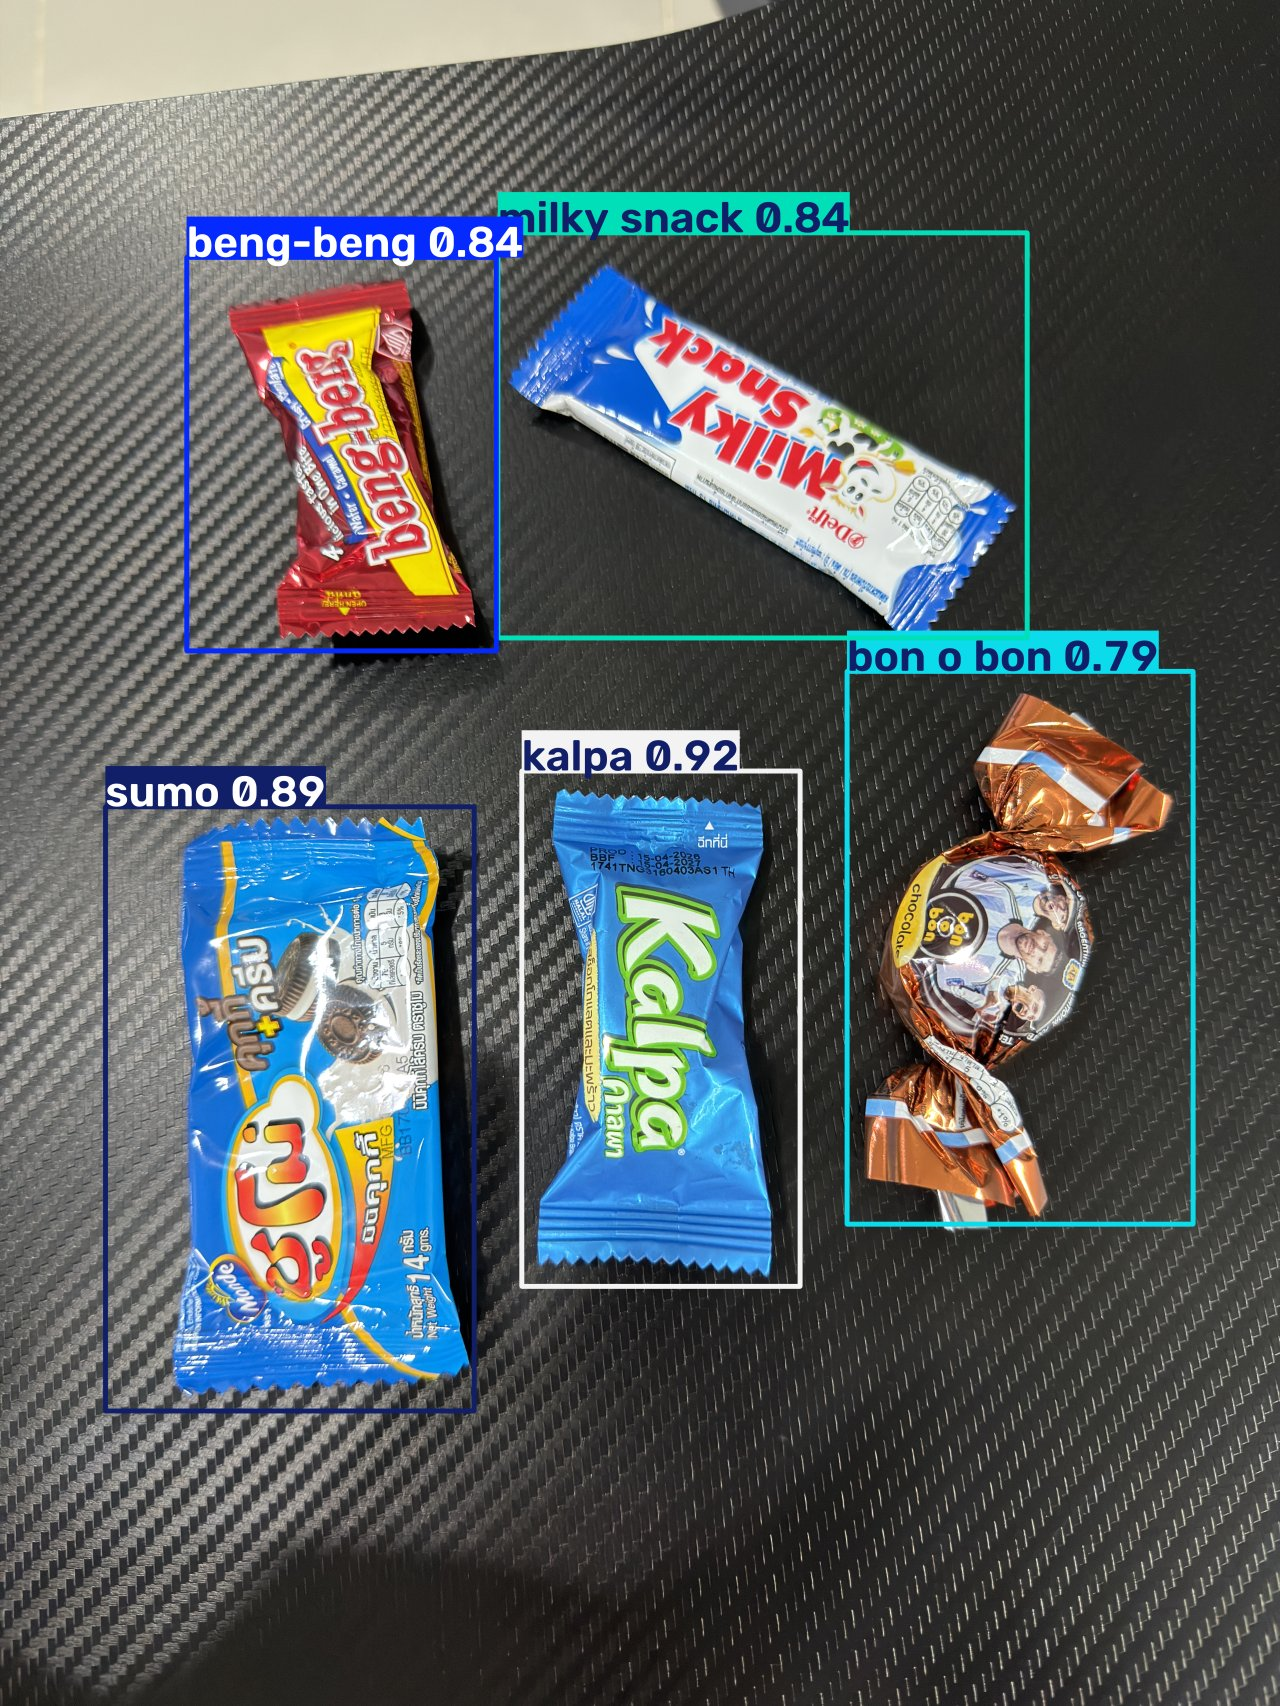
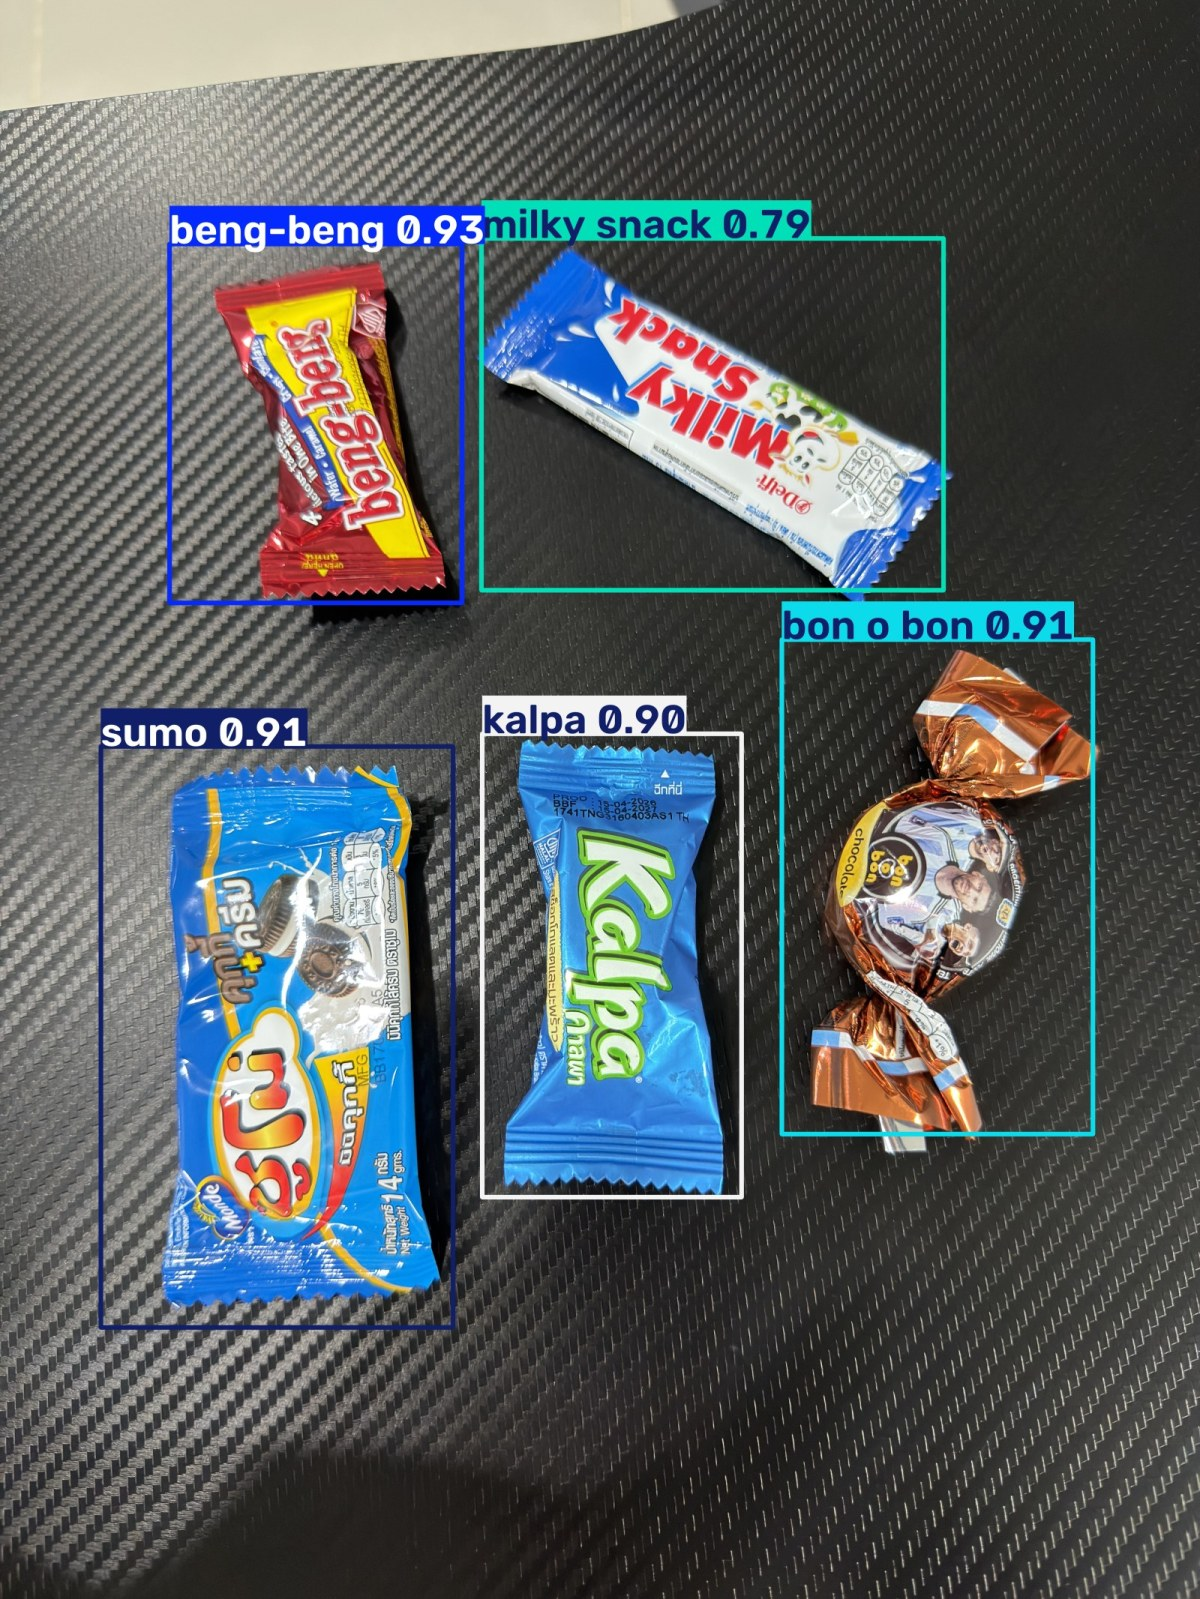
Switch to train-4 model trained with webcam frames
train-3 misread the webcam scene: it missed the yellow beng-beng
wrapper, called milky snack sumo, and flagged the floor as kalpa.
train-4 adds 28 labeled webcam frames and finds all 5 brands on
held-out webcam frames with no off-table false positives.

The camera script now tracks objects and votes each track's class
over the last 15 frames so labels stop flickering, and 's' saves a
raw frame for labeling. Tracking needs lap.

Changed region(s): [[0.0617, 0.0919, 0.9558, 0.858]]

diff --git a/05-test-camera.py b/05-test-camera.py
@@ -1,10 +1,21 @@
+import os
+from collections import defaultdict, deque
+
 import cv2
 from ultralytics import YOLO
+from ultralytics.utils.plotting import Annotator, colors
+
+# จำนวนเฟรมย้อนหลังที่ใช้โหวต class ของวัตถุแต่ละชิ้น (มากขึ้น = นิ่งขึ้น แต่เปลี่ยนช้าลง)
+VOTE_FRAMES = 15
+
+# โฟลเดอร์เก็บภาพจากกล้องเมื่อกด 's' (นำไป label ใน Label Studio แล้วเทรนใหม่)
+SAVE_DIR = "frame/images"
 
 
 def main():
     # โหลดโมเดลที่ผ่านการฝึก (Trained Model)
-    model = YOLO("runs/detect/train-3/weights/best.pt")
+    model = YOLO("runs/detect/train-4/weights/best.pt")
+    names = model.names
 
     # เปิดใช้งานกล้องเว็บแคม
     # เลข 0 หมายถึงกล้องตัวแรกที่เชื่อมต่อกับคอมพิวเตอร์
@@ -21,37 +32,64 @@ def main():
         print("ไม่สามารถเปิดกล้องได้")
         return
 
+    # ประวัติ (class, conf) ของแต่ละ track id ใช้โหวตแก้ปัญหา class กระพริบ เช่น beng-beng กลายเป็น sumo บางเฟรม
+    history = defaultdict(lambda: deque(maxlen=VOTE_FRAMES))
+    saved = 0
+
     # แสดงคำแนะนำการใช้งาน
     print("กด 'q' เพื่อออกจากโปรแกรม")
+    print(f"กด 's' เพื่อบันทึกภาพจากกล้องลง {SAVE_DIR}/ (ใช้ label เพิ่มแล้วเทรนใหม่)")
 
     # เริ่มการตรวจจับแบบ Real-time
     while True:
         # อ่านภาพจากกล้องทีละเฟรม
         success, frame = cap.read()
 
-        # ตรวจสอบว่าสามารถอ่านภาพจากกล้องได้
-        if success:
-
-            # นำภาพจากกล้องเข้าสู่โมเดล YOLO
-            results = model.predict(
-                source=frame,
-                device=0,       # ใช้ GPU ในการประมวลผล
-                verbose=False   # ไม่พิมพ์ log ทุกเฟรม
-            )
-
-            # วาดกรอบ Bounding Box และชื่อ Class ลงบนภาพ (ส่งเข้าไป 1 เฟรม จึงได้ผลลัพธ์ 1 ชุด)
-            annotated_frame = results[0].plot()
-
-            # แสดงภาพที่ผ่านการตรวจจับบนหน้าต่าง
-            cv2.imshow("YOLO26 Real-time Detection", annotated_frame)
-
-            # กดปุ่ม 'q' เพื่อออกจากโปรแกรม
-            if cv2.waitKey(1) & 0xFF == ord('q'):
-                break
-
         # หากไม่สามารถอ่านภาพจากกล้องได้ ให้หยุดการทำงาน
-        else:
+        if not success:
             break
+
+        # ใช้ tracking แทน predict เพื่อให้วัตถุชิ้นเดิมได้ id เดิมในทุกเฟรม
+        results = model.track(
+            source=frame,
+            persist=True,   # จำ track ข้ามเฟรม
+            conf=0.3,
+            device=0,       # ใช้ GPU ในการประมวลผล
+            verbose=False   # ไม่พิมพ์ log ทุกเฟรม
+        )
+        boxes = results[0].boxes
+
+        annotator = Annotator(frame.copy(), line_width=3)
+        if boxes.id is not None:
+            for xyxy, track_id, cls, conf in zip(
+                boxes.xyxy.tolist(), boxes.id.int().tolist(),
+                boxes.cls.int().tolist(), boxes.conf.tolist()
+            ):
+                history[track_id].append((cls, conf))
+
+                # โหวตแบบถ่วงน้ำหนักด้วย confidence จากเฟรมย้อนหลัง
+                score = defaultdict(float)
+                for c, p in history[track_id]:
+                    score[c] += p
+                best = max(score, key=score.get)
+                avg_conf = score[best] / len(history[track_id])
+
+                annotator.box_label(xyxy, f"{names[best]} {avg_conf:.2f}", color=colors(best, True))
+
+        # แสดงภาพที่ผ่านการตรวจจับบนหน้าต่าง
+        cv2.imshow("YOLO26 Real-time Detection", annotator.result())
+
+        key = cv2.waitKey(1) & 0xFF
+        # กดปุ่ม 'q' เพื่อออกจากโปรแกรม
+        if key == ord('q'):
+            break
+        # กดปุ่ม 's' เพื่อบันทึกภาพดิบ (ไม่มีกรอบ) ไว้ label เพิ่ม
+        if key == ord('s'):
+            os.makedirs(SAVE_DIR, exist_ok=True)
+            while os.path.exists(path := os.path.join(SAVE_DIR, f"cam_{saved:04d}.jpg")):
+                saved += 1
+            cv2.imwrite(path, frame)
+            print(f"บันทึกภาพ: {path}")
 
     # ปิดการเชื่อมต่อกับกล้อง
     cap.release()

diff --git a/04-test_video.py b/04-test_video.py
@@ -1,7 +1,7 @@
 from ultralytics import YOLO
 
 # โหลดโมเดลที่ผ่านการฝึก (Trained Model)
-model = YOLO("runs/detect/train-3/weights/best.pt")
+model = YOLO("runs/detect/train-4/weights/best.pt")
 
 # กำหนดชื่อไฟล์วิดีโอที่ต้องการนำมาทดสอบ
 video_to_test = "test_chocolate_treats_video.mp4"

diff --git a/03-test_image.py b/03-test_image.py
@@ -1,7 +1,7 @@
 from ultralytics import YOLO
 
 # โหลดโมเดลที่ผ่านการฝึก (Trained Model)
-model = YOLO("runs/detect/train-3/weights/best.pt")
+model = YOLO("runs/detect/train-4/weights/best.pt")
 
 # นำโมเดลไปทดสอบกับรูปภาพ
 results = model.predict(

diff --git a/README.md b/README.md
@@ -93,6 +93,7 @@ pip install -r requirements.txt
 | `torch` / `torchvision` / `torchaudio` | 2.11.0 / 0.26.0 / 2.11.0 (CUDA 12.8) |
 | `ultralytics` | 8.4.115 |
 | `label-studio` | 1.23.0 |
+| `lap` | 0.5.13 (ใช้กับ Tracking ใน `05-test-camera.py`) |
 | `opencv-python`, `numpy`, `pillow`, `matplotlib`, `PyYAML`, `tqdm` | ล่าสุด |
 
 > ถ้าใช้ CPU หรือ macOS ให้ลบบรรทัด `--extra-index-url` และ `+cu128` ออกจาก `requirements.txt` แล้วเปลี่ยน `device=0` ในสคริปต์เป็น `device="cpu"` (หรือ `"mps"` บน Mac)
@@ -213,8 +214,10 @@ python 01-export_dataset.py
 สคริปต์จะหาไฟล์ `*.json` ในโฟลเดอร์โปรเจกต์ให้เอง (ต้องมีแค่ **1 ไฟล์**) ถ้ามีหลายไฟล์ให้ระบุเอง
 
 ```bash
-python 01-export_dataset.py --json project-4-at-2026-10-04-01-03-f8f1569f.json
+python 01-export_dataset.py --json project-4-at-2026-10-04-webcam-merged.json
 ```
+
+> `project-4-at-2026-10-04-webcam-merged.json` คือไฟล์ Export จาก Label Studio รวมกับ Label ของภาพ Webcam 28 ภาพ (`frame/webcam_tasks.json` ซึ่ง Import เข้า Label Studio ได้)
 
 | Option | ค่าเริ่มต้น | รายละเอียด |
 | ------ | --------- | --------- |
@@ -230,8 +233,8 @@ python 01-export_dataset.py --json project-4-at-2026-10-04-01-03-f8f1569f.json
 
 ```text
 Classes (5): ['beng-beng', 'bon o bon', 'kalpa', 'milky snack', 'sumo']
-Train: 182 images
-Val:   46 images
+Train: 205 images
+Val:   51 images
 ```
 
 ---
@@ -272,29 +275,49 @@ close_mosaic = 20      # ปิด Mosaic ใน 20 epoch สุดท้าย
 
 # 📊 Results
 
-โมเดลปัจจุบันคือ `runs/detect/train-3` (yolo26s) หยุดเองที่ epoch 148 โดย `best.pt` มาจาก epoch 88 Dataset ประกอบด้วยเฟรมจากวิดีโอ Train เดิม 147 ภาพ และเฟรมจากวิดีโอ bon o bon ที่ถ่ายใหม่ (ระยะใกล้ หลายมุม) อีก 81 ภาพ
+โมเดลปัจจุบันคือ `runs/detect/train-4` (yolo26s) เทรนครบ 200 epoch โดย `best.pt` มาจาก epoch 150 Dataset มีทั้งหมด 256 ภาพ ได้แก่
+- เฟรมจากวิดีโอ Train เดิม 147 ภาพ
+- เฟรมจากวิดีโอ bon o bon (ระยะใกล้ หลายมุม) 81 ภาพ
+- ภาพจากกล้อง Webcam บนโต๊ะไม้ 28 ภาพ (`cam_*.jpg`) ถ่ายเพิ่มเพราะ `train-3` ใช้กับกล้องจริงแล้วทายผิด
 
-## ผลรายยี่ห้อ (Validation 46 ภาพ)
+## ผลรายยี่ห้อ (Validation 51 ภาพ)
 
 | Class | Precision | Recall | mAP50 | mAP50-95 |
 | ----- | --------- | ------ | ----- | -------- |
-| beng-beng | 0.986 | 1.000 | 0.995 | 0.623 |
-| bon o bon | 0.963 | 0.957 | 0.965 | 0.628 |
-| kalpa | 0.900 | 0.955 | 0.922 | 0.645 |
-| milky snack | 1.000 | 0.947 | 0.984 | 0.530 |
-| sumo | 0.961 | 0.938 | 0.991 | 0.645 |
-| **all** | **0.962** | **0.959** | **0.971** | **0.614** |
+| beng-beng | 1.000 | 0.976 | 0.995 | 0.696 |
+| bon o bon | 0.930 | 0.980 | 0.969 | 0.683 |
+| kalpa | 1.000 | 0.983 | 0.995 | 0.770 |
+| milky snack | 0.995 | 0.897 | 0.992 | 0.716 |
+| sumo | 1.000 | 1.000 | 0.995 | 0.777 |
+| **all** | **0.985** | **0.967** | **0.989** | **0.728** |
 
-ทุกยี่ห้อได้ Precision, Recall และ mAP50 เกิน 90%
+## ปัญหาของ `train-3` กับกล้อง Webcam
+
+ภาพ Train ของ `train-3` ถ่ายจากมือถือบนพื้นคาร์บอนสีดำทั้งหมด พอใช้กับกล้อง Webcam บนโต๊ะไม้ที่แสงจ้า โมเดลจึงทายผิด
+
+* ไม่เจอ beng-beng ซองสีเหลืองเลย เพราะใน Dataset มีแต่ซองฟอยล์สีแดง
+* ทาย milky snack เป็น sumo
+* ทายพื้นกระเบื้องและหน้าต่างเป็น kalpa
+* ชื่อยี่ห้อกระพริบสลับไปมาระหว่างเฟรม
+
+ผลเทียบบนภาพ Webcam 27 ภาพที่ไม่ได้ใช้ Train (conf 0.5)
+
+| Model | beng-beng | milky snack | kalpa | sumo | bon o bon | ทายผิดนอกโต๊ะ |
+| ----- | --------- | ----------- | ----- | ---- | --------- | ------------- |
+| `train-4` | **27/27** | **27/27** | 27/27 | 27/27 | 25/27 | **0 กรอบ** |
+| `train-3` | 0/27 | 0/27 (ทายเป็น sumo) | 27/27 | 27/27 | 27/27 | 20 กรอบ |
+
+> ภาพ Webcam ทุกภาพถ่ายฉากเดียวกัน ขนมวางเรียงลำดับเดิม ถ้าสลับตำแหน่งหรือเปลี่ยนแสงอาจยังทายผิดได้ ควรถ่ายเพิ่มด้วยปุ่ม `s` ใน `05-test-camera.py`
 
 ## เทียบกับโมเดลรุ่นก่อน
 
-| Model | val mAP50 | val mAP50-95 | bon o bon (val) Recall | วิดีโอ bon o bon (เฟรมที่ตรวจเจอ) | `test.jpg` (conf 0.5) |
-| ----- | --------- | ------------ | ---------------------- | --------------------------------- | --------------------- |
-| `train-3` | 0.971 | 0.614 | 0.957 | **93%** (1221/1317) | ครบ 5/5 ยี่ห้อ |
-| `train-v2` | 0.970 | 0.599 | 0.717 | 38% (506/1317) | 4/5 (sumo ได้แค่ 0.33) |
+| Model | val mAP50 | val mAP50-95 | วิดีโอ bon o bon (เฟรมที่ตรวจเจอ) | `test.jpg` (conf 0.5) |
+| ----- | --------- | ------------ | --------------------------------- | --------------------- |
+| `train-4` | 0.989 | 0.728 | **93%** (1225/1317) | ครบ 5/5 ยี่ห้อ |
+| `train-3` | 0.971 | 0.614 | 93% (1221/1317) | ครบ 5/5 ยี่ห้อ |
+| `train-v2` | 0.970 | 0.599 | 38% (506/1317) | 4/5 (sumo ได้แค่ 0.33) |
 
-> ทั้งสองรุ่นวัดบน Validation ชุดเดียวกัน 46 ภาพ วิดีโอ bon o bon มี 81 เฟรมที่ใช้ Train อยู่ด้วย ตัวเลข 93% จึงสูงกว่าการใช้งานจริงเล็กน้อย
+> ตัวเลข val ของ `train-4` วัดบน Validation 51 ภาพ (มีภาพ Webcam รวมอยู่ด้วย) ส่วน `train-3` และ `train-v2` วัดบน 46 ภาพเดิม จึงเทียบกันตรง ๆ ไม่ได้ วิดีโอ bon o bon มี 81 เฟรมที่ใช้ Train อยู่ด้วย ตัวเลข 93% จึงสูงกว่าการใช้งานจริงเล็กน้อย
 
 ![Confusion Matrix](images/confusion_matrix.png)
 
@@ -308,7 +331,7 @@ close_mosaic = 20      # ปิด Mosaic ใน 20 epoch สุดท้าย
 
 # 🧪 Test Model
 
-ทั้ง 3 สคริปต์โหลด Weights จาก `runs/detect/train-3/weights/best.pt` ถ้า Train รอบใหม่ ให้แก้ path นี้ในทั้ง 3 ไฟล์
+ทั้ง 3 สคริปต์โหลด Weights จาก `runs/detect/train-4/weights/best.pt` ถ้า Train รอบใหม่ ให้แก้ path นี้ในทั้ง 3 ไฟล์
 
 ## 1. Test Image
 
@@ -344,12 +367,19 @@ video_to_test = "test_chocolate_treats_video.mp4"
 python 05-test-camera.py
 ```
 
-เปิดกล้อง Webcam (DirectShow, 1280x720 MJPG) และตรวจจับแบบ Real-time กด `q` เพื่อออกจากโปรแกรม
+เปิดกล้อง Webcam (DirectShow, 1280x720 MJPG) และตรวจจับแบบ Real-time
+
+| ปุ่ม | การทำงาน |
+| --- | ------- |
+| `q` | ออกจากโปรแกรม |
+| `s` | บันทึกภาพดิบ (ไม่มีกรอบ) ลง `frame/images/cam_XXXX.jpg` เพื่อนำไป Label แล้ว Train เพิ่ม |
+
+สคริปต์ใช้ `model.track()` ให้ขนมชิ้นเดิมได้ id เดิมในทุกเฟรม แล้วโหวต Class จาก 15 เฟรมล่าสุดโดยถ่วงน้ำหนักด้วย confidence ชื่อยี่ห้อจึงไม่กระพริบเมื่อโมเดลทายผิดเป็นบางเฟรม ปรับจำนวนเฟรมได้ที่ `VOTE_FRAMES` (การ Tracking ต้องใช้แพ็กเกจ `lap` ซึ่งอยู่ใน `requirements.txt` แล้ว)
 
 ## ใช้ผ่าน Ultralytics CLI
 
 ```bash
-yolo detect predict model=runs/detect/train-3/weights/best.pt source=test.jpg conf=0.5
+yolo detect predict model=runs/detect/train-4/weights/best.pt source=test.jpg conf=0.5
 ```
 
 ---
